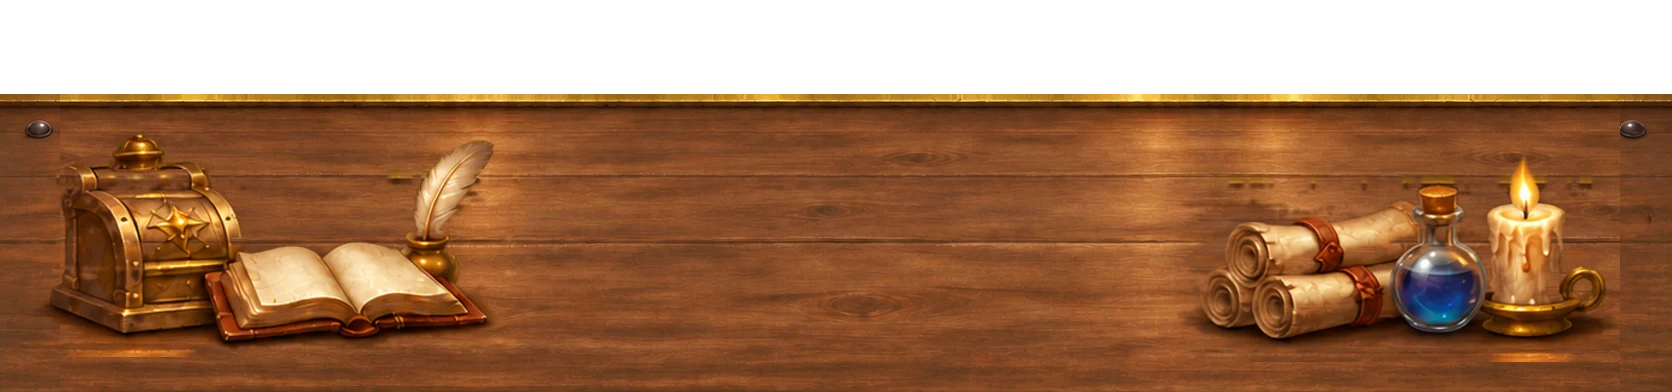
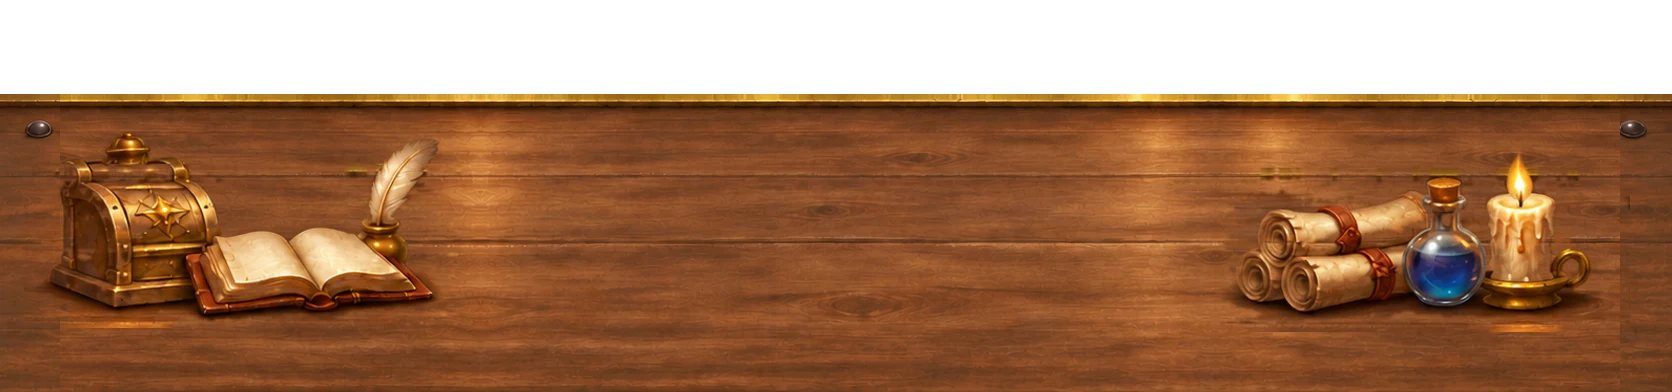
feat(ui): pack shop: lower table, navy top bar with centred shelves, selected pack glows, price under the name
Owner 2026-11-25. The counter line drops from 66% to 73% (the painted counter keeps its proportions and its props are reset for the shallower view); shelf packs stand a little lower, the hand a little higher. The top section is a navy bar with the main menu nav's thin gold rule, the shelf tabs centred, and the Legendary guarantee moved up under the Aether counter. A hand pack glows in its rarity's colour as it stands up. The description card shows the price under the pack's name.

Changed region(s): [[0.0, 0.3367, 0.311, 0.9184], [0.6842, 0.398, 0.9641, 0.949]]

diff --git a/packages/ui/src/progression/packShop/packShop.css b/packages/ui/src/progression/packShop/packShop.css
@@ -20,10 +20,15 @@
 .pks-away :is(.pks-top, .pks-line, .pks-guarantee, .pks-handlabel, .pks-close) { pointer-events: none; transition: var(--pks-leave); }
 .pks-still :is(.pks-top, .pks-line, .pks-guarantee, .pks-handlabel, .pks-close) { translate: none; transition: opacity 0.2s ease-out; }
 
-/* THE TOP BAR: the shelf tabs on the left, the wallet on the right. */
-.pks-top { position: absolute; left: 36px; right: 168px; top: 22px; display: flex; align-items: center; justify-content: space-between;
-  pointer-events: none; }
-.pks-tabs { display: flex; gap: 10px; pointer-events: auto; }
+/* THE TOP BAR (owner 2026-11-25: "center the categories and put the whole top section in front of a navy bar with a gold
+   line on the bottom, like the main menu top nav bar"): a navy band across the stage with the main menu nav's thin gold
+   rule on its foot. The shelf tabs stand in its middle, the wallet and Close at its right. */
+.pks-top { position: absolute; left: 0; right: 0; top: 0; height: 88px; box-sizing: border-box; padding: 0 168px 0 36px; display: flex; align-items: center;
+  justify-content: flex-end; pointer-events: none;
+  background: linear-gradient(180deg, rgba(10, 13, 30, 0.97), rgba(18, 23, 48, 0.93)); box-shadow: 0 8px 24px rgba(0, 0, 0, 0.4); }
+.pks-top::after { content: ''; position: absolute; left: 0; right: 0; bottom: 0; height: 2px; pointer-events: none;
+  background: color-mix(in srgb, var(--pill-edge, #c8953f) 85%, transparent); }
+.pks-tabs { position: absolute; left: 50%; top: 50%; translate: -50% -50%; display: flex; gap: 10px; pointer-events: auto; }
 /* A tab is a little shelf label: its shelf's lead pack leaning beside the name. The picked one stands lit, with a gold
    bar under it (a pseudo-element with a static glow: only opacity and transform ever change). */
 .pks-tab { position: relative; display: flex; align-items: center; gap: 10px; height: 60px; padding: 0 20px 0 12px;
@@ -45,9 +50,9 @@
 .pks-wallet .pkop-aether-orb, .pks-wallet .pkop-aether-gem.aether-icon { width: 64px; height: 64px; }
 .pks-wallet .pkop-aether-num { font-size: 40px; }
 
-/* THE COUNTER LINE'S WORDS: the scene draws and lights the line at 66% of the stage; the price (or what is missing)
+/* THE COUNTER LINE'S WORDS: the scene draws and lights the line at 73% of the stage; the price (or what is missing)
    sits on it while a shelf pack is carried, at the line's LEFT end, where the carried pack does not cover it. */
-.pks-line { position: absolute; left: 6%; right: 0; top: 66%; height: 0; display: flex; justify-content: flex-start; pointer-events: none; }
+.pks-line { position: absolute; left: 6%; right: 0; top: 73%; height: 0; display: flex; justify-content: flex-start; pointer-events: none; }
 .pks-line-words { transform: translateY(8px); padding: 7px 18px; border-radius: 0 0 12px 12px; background: linear-gradient(180deg, rgba(34, 40, 74, 0.96), rgba(14, 17, 36, 0.96));
   border: 1.5px solid var(--pk-rim); border-top: none; font-size: 21px; font-weight: 800; letter-spacing: 0.06em; color: var(--pk-text); opacity: 0.8;
   transition: opacity 0.15s ease-out; }
@@ -55,7 +60,7 @@
 .pks-line-short { color: #ff9c8a; }
 /* THE GUARANTEE'S GAUGE, under the counter line at the right: the rarity's medallion, the words, and a pip per pack to go
    (`.r-<rarity>` gives the pips the rarity's colour token, `--rc`), so the player sees it count down. Static glow only. */
-.pks-guarantee { position: absolute; right: 48px; top: calc(66% + 16px); display: flex; align-items: center; gap: 12px; padding: 6px 20px 6px 6px;
+.pks-guarantee { position: absolute; right: 36px; top: 104px; display: flex; align-items: center; gap: 12px; padding: 6px 20px 6px 6px;
   border-radius: 34px; background: linear-gradient(180deg, rgba(40, 50, 96, 0.82), rgba(14, 18, 38, 0.9)); border: 1.5px solid rgba(255, 210, 122, 0.26);
   pointer-events: none; }
 .pks-guarantee-medal { width: 54px; height: 54px; object-fit: contain; flex: none; }
@@ -68,14 +73,14 @@
    carries its Buy / Open button; without a rect (a pack out of view) it docks above the counter line. */
 .pks-tag { position: absolute; width: max-content; max-width: 520px; box-sizing: border-box; padding: 8px 18px 9px; border-radius: 14px;
   background: linear-gradient(180deg, rgba(34, 40, 74, 0.97), rgba(14, 17, 36, 0.97)); border: 1.5px solid var(--pk-rim); box-shadow: 0 8px 24px rgba(0, 0, 0, 0.55);
-  display: flex; flex-flow: row wrap; align-items: center; justify-content: space-between; gap: 4px 26px; pointer-events: none; animation: pks-tag-in 0.16s ease-out both; }
-/* one compact row (the pack's medal, name and floor; then its price): it fits the gap between a shelf pack and the
-   counter. A warning or the Buy button takes a row of its own under it. */
+  display: flex; flex-direction: column; gap: 2px; pointer-events: none; animation: pks-tag-in 0.16s ease-out both; }
+/* compact: the pack's medal, name and floor, then its price under the name; a warning or the Buy button takes a row of
+   its own under that. It sits in the gap between a shelf pack and the counter. */
 .pks-tag .pks-tag-medal { width: 44px; height: 44px; }
-.pks-tag .pks-tag-price { margin-top: 0; }
-.pks-tag :is(.pks-tag-short, .pks-buy, .pks-open) { flex-basis: 100%; }
+.pks-tag .pks-tag-price { margin-top: 0; padding-left: 56px; }
+.pks-tag :is(.pks-buy, .pks-open) { margin-top: 6px; }
 .pks-tag-armed { pointer-events: auto; }
-.pks-tag-dock { left: 50%; top: calc(66% - 150px); translate: -50% 0; }
+.pks-tag-dock { left: 50%; top: calc(73% - 150px); translate: -50% 0; }
 @keyframes pks-tag-in { from { opacity: 0; transform: translateY(6px); } to { opacity: 1; transform: none; } }
 .pks-tag-name, .pks-card-name { font-family: var(--font-cardname); font-size: 22px; font-weight: 800; color: var(--gold-lt); line-height: 1.15; }
 .pks-tag-head, .pks-card-head { display: flex; align-items: center; gap: 12px; }
@@ -91,9 +96,9 @@
 /* The spoken line, shown small at the lower left under the hand's label, clear of the packs. */
 .pks-live { position: absolute; left: 6%; top: calc(86% + 22px); max-width: 22%; font-size: 15px; line-height: 1.3; color: var(--pk-text); opacity: 0.8;
   pointer-events: none; }
-.pks-close { position: absolute; top: 32px; right: 36px; }
+.pks-close { position: absolute; top: 24px; right: 36px; }
 /* The hand's label, at the hand's left. */
-.pks-handlabel { position: absolute; left: 50%; top: 97.6%; transform: translate(-50%, -50%); font-size: 17px; font-weight: 800; letter-spacing: 0.14em;
+.pks-handlabel { position: absolute; left: 50%; top: 76.4%; transform: translate(-50%, -50%); font-size: 17px; font-weight: 800; letter-spacing: 0.14em;
   text-transform: uppercase; color: var(--gold-lt); opacity: 0.7; pointer-events: none; }
 
 /* Visually hidden, still read and focusable: the mirror of the canvas. Its focused pack shows the tag instead. */

diff --git a/packages/ui/src/progression/packShop/shopScene.ts b/packages/ui/src/progression/packShop/shopScene.ts
@@ -61,11 +61,11 @@ import { aimInto, newTilt, stepTilt, tiltEaseK, type TiltState } from '../packOp
 import { LIFT_GROW, ShelfPack, liftPoseInto } from './shelfPack';
 import { LOOK_EASE, ShopBackdrop } from './shopBackdrop';
 import {
-  Placard, SHOP_GROMMET_SRC, SHOP_TAG_SRC, loadTexture, paintContactShadow, paintPackShadow, paintTray, placardBadge, placardCount,
+  Placard, SHOP_GROMMET_SRC, SHOP_TAG_SRC, loadTexture, paintContactShadow, paintPackGlow, paintPackShadow, paintTray, placardBadge, placardCount,
 } from './shopDressing';
 import { AETHER_ICON_SRC } from '../AetherIcon';
 import { arrived, buySettled, cancelHeld, moveHeld, newDrag, pickUp, release, zoneAt, type ShopDrag } from './shopDrag';
-import { HAND_FAN_MAX, clampScroll, handPoseInto, shelfPoseInto, shopLayout, type PackPose, type ShopLayout } from './shopLayout';
+import { HAND_FAN_MAX, HAND_RECLINE, clampScroll, handPoseInto, shelfPoseInto, shopLayout, type PackPose, type ShopLayout } from './shopLayout';
 import {
   SETTLE_DEPTH, SETTLE_FRAMES, arrivingPlaceHidden, bindFan, handFanInto, hiddenAsleep, inRotatedRect, newPointerVel,
   newShake, newSwing, parksOnArrival, pointerVelDecay, resetPointerVel, resetShake, rubberY, samplePointerVel, settleDip,
@@ -228,13 +228,18 @@ const RACK_FADE_EASE = 0.15;
  * so it is foreshortened like the counter under it, and stands up to face the player as it is hovered. Each casts a
  * shadow: this dark at rest, offset down and right by these shares of the pack's height, lighter and further as it lifts.
  */
-const HAND_RECLINE = 52;
 const HAND_SHADOW = { alpha: 0.42, dx: 0.035, dy: 0.05, lift: 0.1 } as const;
 /**
  * The hand packs' CONTACT shadow (owner 2026-11-25: "add shadows here to make it look a bit more like its against the
  * table"): tight and dark under the pack's own outline, offset by these shares of its height. As the pack lifts it
  * fades to `lifted` of its strength and slides `away` times further off (the pack has left the wood).
  */
+/**
+ * A SELECTED hand pack glows (owner 2026-11-25: "when the card is selected, have it glow"): the light round a pack as it
+ * stands up under the pointer, in its rarity's colour, this strong at full lift.
+ */
+const HAND_GLOW = 0.85;
+const GLOW_TINT: Readonly<Record<string, number>> = { common: 0xdfe6f2, rare: 0x6fb4ff, epic: 0xc88bff, legendary: 0xffc55a, ancient: 0x7ff2e2 };
 const HAND_CONTACT = { alpha: 0.72, dx: 0.014, dy: 0.03, lifted: 0.35, away: 4 } as const;
 const TAG_FONT = 0.0525; // owner 2026-11-25: "make the tag smaller by 30%" (was 0.075)
 /**
@@ -546,10 +551,12 @@ class ShopSceneImpl implements ShopScene {
     this.shadowLayer = shadows;
     app.stage.addChild(shadows);
     const contactTex = tex(paintContactShadow());
+    const glowTex = tex(paintPackGlow());
     const hand = new Container();
     for (let j = 0; j < HAND_FAN_MAX; j++) {
       const p = new ShelfPack(webgl, this.bandTex);
       p.enableShadow(contactTex);
+      p.enableGlow(glowTex);
       this.handPacks.push(p);
       hand.addChild(p.view);
     }
@@ -1321,6 +1328,7 @@ class ShopSceneImpl implements ShopScene {
       // (the lift is already in q: pose it unlifted) lying back on the counter, standing up as it lifts
       const up = this.handLift[v]!, lie = HAND_RECLINE * (1 - up);
       const away = 1 + (HAND_CONTACT.away - 1) * up;
+      this.handPacks[v]!.setGlow(HAND_GLOW * up, GLOW_TINT[packGlowRarity(this.hand[j]!.look)] ?? 0xffd27a);
       this.handPacks[v]!.setShadow(HAND_CONTACT.alpha * (1 - (1 - HAND_CONTACT.lifted) * up), HAND_CONTACT.dx * away, HAND_CONTACT.dy * away);
       this.handPacks[v]!.pose(q, ax, ay, 0, lie);
       const sh = this.handShadows[v];

diff --git a/packages/ui/src/progression/packShop/shelfPack.ts b/packages/ui/src/progression/packShop/shelfPack.ts
@@ -70,6 +70,8 @@ export class ShelfPack {
   /** The pack's contact shadow (`enableShadow`): the pack's own outline, a little larger, offset down and right. */
   private shadow: PerspectiveMesh | null = null;
   private readonly shadowAt = { dx: 0, dy: 0 };
+  /** The pack's glow (`enableGlow`): a soft light round its outline, shown while it is selected. */
+  private glow: PerspectiveMesh | null = null;
   private lookKey = '';
   /** Bumped by every `setLook` and by `destroy`: a load that arrives for an older look touches nothing. */
   private loadToken = 0;
@@ -169,6 +171,29 @@ export class ShelfPack {
     this.view.addChildAt(this.shadow, 0);
   }
 
+  /**
+   * Give the pack a glow round its outline (`tex`: `paintPackGlow`'s slab, shared, same layout as the shadow's). Drawn
+   * under the pack and over its shadow, added to what is behind it.
+   */
+  enableGlow(tex: Texture): void {
+    if (this.glow || this.destroyed) return;
+    this.glow = new PerspectiveMesh({ texture: tex, verticesX: 4, verticesY: 4 });
+    this.glow.blendMode = 'add';
+    this.glow.alpha = 0;
+    this.glow.visible = false;
+    this.view.addChildAt(this.glow, this.shadow ? 1 : 0);
+    this.key.rx = NaN;
+  }
+
+  /** The glow's strength (0..1) and colour. */
+  setGlow(alpha: number, tint: number): void {
+    const g = this.glow;
+    if (!g) return;
+    g.alpha = alpha;
+    g.visible = alpha > 0.004;
+    g.tint = tint;
+  }
+
   /** The contact shadow's strength (0..1) and its offset, as shares of the pack's height. Call before `pose`. */
   setShadow(alpha: number, dx: number, dy: number): void {
     const sh = this.shadow;
@@ -199,7 +224,7 @@ export class ShelfPack {
     this.destroyed = true;
     this.loadToken++;
     const gm = this.gloss?.mesh;
-    const geoms = [this.mesh.geometry, gm?.geometry, this.shadow?.geometry];
+    const geoms = [this.mesh.geometry, gm?.geometry, this.shadow?.geometry, this.glow?.geometry];
     const shader = gm?.shader;
     this.view.destroy({ children: true });
     for (const geo of geoms) geo?.destroy();
@@ -217,6 +242,15 @@ export class ShelfPack {
       c[i * 2] = p.x; c[i * 2 + 1] = p.y;
     }
     this.mesh.setCorners(c[0]!, c[1]!, c[2]!, c[3]!, c[4]!, c[5]!, c[6]!, c[7]!);
+    const gl = this.glow;
+    if (gl) {
+      // the pack's own outline: the texture's bright slab is the pack, its soft edge reaches out past it
+      const mx = (c[0]! + c[2]! + c[4]! + c[6]!) / 4, my = (c[1]! + c[3]! + c[5]! + c[7]!) / 4, e = 1 / SHADOW_SLAB;
+      gl.setCorners(
+        mx + (c[0]! - mx) * e, my + (c[1]! - my) * e, mx + (c[2]! - mx) * e, my + (c[3]! - my) * e,
+        mx + (c[4]! - mx) * e, my + (c[5]! - my) * e, mx + (c[6]! - mx) * e, my + (c[7]! - my) * e,
+      );
+    }
     const sh = this.shadow;
     if (sh) {
       // the pack's own outline, grown so the texture's slab is a little larger than the pack, then offset

diff --git a/packages/ui/src/progression/packShop/shopBackdrop.ts b/packages/ui/src/progression/packShop/shopBackdrop.ts
@@ -325,6 +325,8 @@ export class ShopBackdrop {
   private h = 0;
   private lineY = 0;
   private alive = true;
+  /** The counter is the painted art (not the placeholder): it keeps its own proportions. */
+  private counterArt = false;
 
   constructor() {
     const tex = (c: HTMLCanvasElement): Texture => { const t = new Texture({ source: new CanvasSource({ resource: c }) }); this.textures.push(t); return t; };
@@ -342,7 +344,7 @@ export class ShopBackdrop {
     const sprites: Record<BackdropLayer, Sprite> = { wall: this.wall, counter: this.counter, fore: this.fore };
     for (const layer of Object.keys(SHOP_ART) as BackdropLayer[]) {
       const src = SHOP_ART[layer];
-      if (src) loadTexture(src, () => this.alive, (t) => { this.textures.push(t); sprites[layer].texture = t; sprites[layer].alpha = 1; this.size(); });
+      if (src) loadTexture(src, () => this.alive, (t) => { this.textures.push(t); sprites[layer].texture = t; sprites[layer].alpha = 1; if (layer === 'counter') this.counterArt = true; this.size(); });
     }
   }
 
@@ -359,7 +361,12 @@ export class ShopBackdrop {
     this.fore.width = w * (1 + 2 * OVERSCAN.fore); this.fore.height = h * (1 + 2 * OVERSCAN.fore);
     // the counter's painting runs from its headroom above the line to the canvas's foot
     this.counter.width = w * (1 + 2 * OVERSCAN.counter);
-    this.counter.height = Math.max(1, h - this.lineY) / (1 - COUNTER_HEADROOM);
+    // The painted counter keeps its proportions (its props must not squash): where that is taller than the room under the
+    // line, its near edge runs off the bottom of the canvas.
+    const need = Math.max(1, h - this.lineY) / (1 - COUNTER_HEADROOM);
+    const tex = this.counter.texture;
+    const natural = this.counterArt && tex.width > 1 ? this.counter.width * (tex.height / tex.width) : 0;
+    this.counter.height = Math.max(need, natural);
   }
 
   /** The pointer is at (px, py) in canvas px. */

diff --git a/packages/ui/src/progression/packShop/shopLayout.ts b/packages/ui/src/progression/packShop/shopLayout.ts
@@ -36,18 +36,20 @@ const ASPECT = PACK_BASE_SIZE.w / PACK_BASE_SIZE.h;
 const PEDESTAL_H = 0.46;
 const SHELF_SCALE = 0.72;
 /** The line the packs' feet share, in canvas heights. */
-const FLOOR_Y = 0.585;
+const FLOOR_Y = 0.62; // owner 2026-11-25: "move the shop display packs down a bit" (was 0.585)
 /** A pack in the hand lies on the counter, nearer than the shelf: it is drawn reclined (`shopScene.ts HAND_RECLINE`), so
  *  its drawn height is well under this. */
-const HAND_SCALE = 0.66;
+const HAND_SCALE = 0.6;
 /** Past this many steps from the pedestal a slot is invisible; it fades in over the last `FADE_STEPS`. */
 const FADE_END = 2.6;
 const FADE_STEPS = 0.6;
 /** Extra room between the (larger) pedestal pack and its neighbours, in shelf pack widths. */
 const PEDESTAL_GAP = 0.2;
 /** Lean per place from the hand's centre (radians) and how far the outer packs sag. */
+/** How far back a pack in the hand lies on the counter (degrees): its drawn height is `cos` of this of its own. */
+export const HAND_RECLINE = 52;
 const HAND_LEAN = 0.035;
-const HAND_SAG = 0.012;
+const HAND_SAG = 0; // a row lying on the counter does not sag (it did, as a held fan)
 
 export function shopLayout(w: number, h: number): ShopLayout {
   const pedestalH = PEDESTAL_H * h;
@@ -58,7 +60,7 @@ export function shopLayout(w: number, h: number): ShopLayout {
     // the packs STAND on one line: bottoms on `floorY`. `shelfY` is the pedestal pack's centre (the pedestal zone and
     // the spotlight aim there).
     floorY: FLOOR_Y * h,
-    shelfY: FLOOR_Y * h - pedestalH / 2, lineY: 0.66 * h, handY: 0.82 * h,
+    shelfY: FLOOR_Y * h - pedestalH / 2, lineY: 0.73 * h, handY: 0.86 * h, // owner 2026-11-25: "lower the table by a good amount" (the line was 0.66)
     packH, pedestalH, handPackH,
     slotStep: packH * ASPECT * 1.25,
   };

diff --git a/packages/ui/src/progression/packShop/shopLayout.test.ts b/packages/ui/src/progression/packShop/shopLayout.test.ts
@@ -1,5 +1,5 @@
 import { describe, expect, it } from 'vitest';
-import { HAND_FAN_MAX, clampScroll, handPile, handPoseInto, shelfPoseInto, shopLayout, startScroll } from './shopLayout';
+import { HAND_FAN_MAX, HAND_RECLINE, clampScroll, handPile, handPoseInto, shelfPoseInto, shopLayout, startScroll } from './shopLayout';
 import { PACK_BASE_SIZE } from '../packOpening/packFxConfig';
 
 describe('shopLayout', () => {
@@ -38,13 +38,14 @@ describe('the pedestal and the hand keep clear of the bar and the line', () => {
       expect(p.y + p.h / 2).toBeLessThanOrEqual(L.lineY - 0.04 * h);
       expect(L.packH).toBeCloseTo(0.72 * L.pedestalH);
     });
-    it(`at ${w} x ${h}: every place of a full fan rests wholly below the line`, () => {
+    it(`at ${w} x ${h}: every place of a full fan lies wholly below the line (a hand pack is drawn reclined)`, () => {
       const L = shopLayout(w, h), p = { x: 0, y: 0, h: 0, rot: 0, alpha: 0 };
       const hw = (L.handPackH * PACK_BASE_SIZE.w) / PACK_BASE_SIZE.h / 2;
       for (let i = 0; i < HAND_FAN_MAX; i++) {
         handPoseInto(p, L, i, HAND_FAN_MAX);
         // the highest corner of the rotated pack
-        const top = p.y - (p.h / 2) * Math.cos(p.rot) - hw * Math.abs(Math.sin(p.rot));
+        const lie = Math.cos((HAND_RECLINE * Math.PI) / 180);
+        const top = p.y - (p.h / 2) * lie * Math.cos(p.rot) - hw * Math.abs(Math.sin(p.rot));
         expect(top).toBeGreaterThan(L.lineY);
       }
     });

diff --git a/packages/ui/src/progression/packShop/shopDressing.ts b/packages/ui/src/progression/packShop/shopDressing.ts
@@ -43,6 +43,17 @@ export function paintPackShadow(): HTMLCanvasElement {
   return c;
 }
 
+/** A pack's GLOW: a white slab with a wide soft edge (the same layout as the contact shadow's), tinted and added by the scene. */
+export function paintPackGlow(): HTMLCanvasElement {
+  const W = 128, H = 128;
+  const { c, g } = canvasOf(W, H);
+  if (!g) return c;
+  g.filter = 'blur(9px)';
+  g.fillStyle = 'rgba(255,255,255,1)';
+  g.beginPath(); g.roundRect(22, 22, W - 44, H - 44, 6); g.fill();
+  return c;
+}
+
 /** A pack's CONTACT shadow: a dark slab with a tight soft edge (the middle 76 of 128 px: `shelfPack.ts SHADOW_SLAB`). */
 export function paintContactShadow(): HTMLCanvasElement {
   const W = 128, H = 128;
